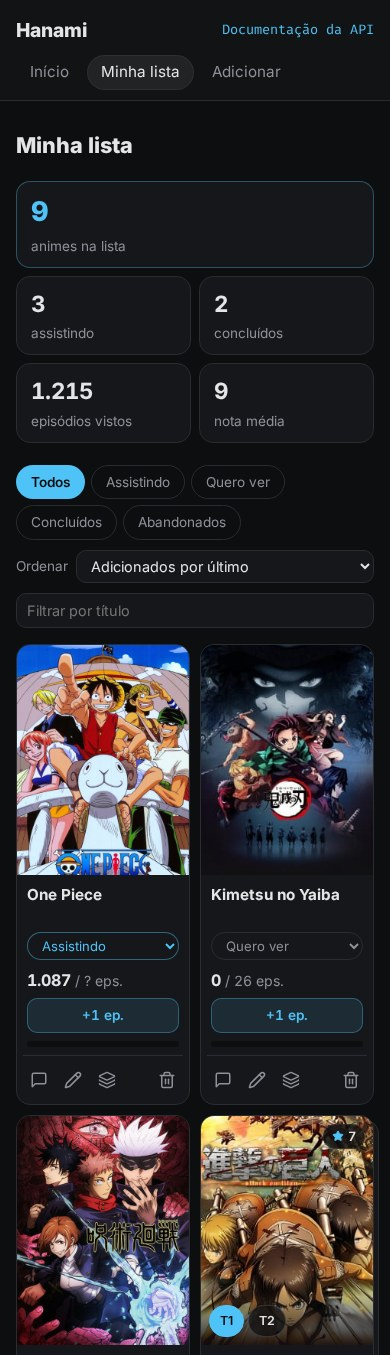
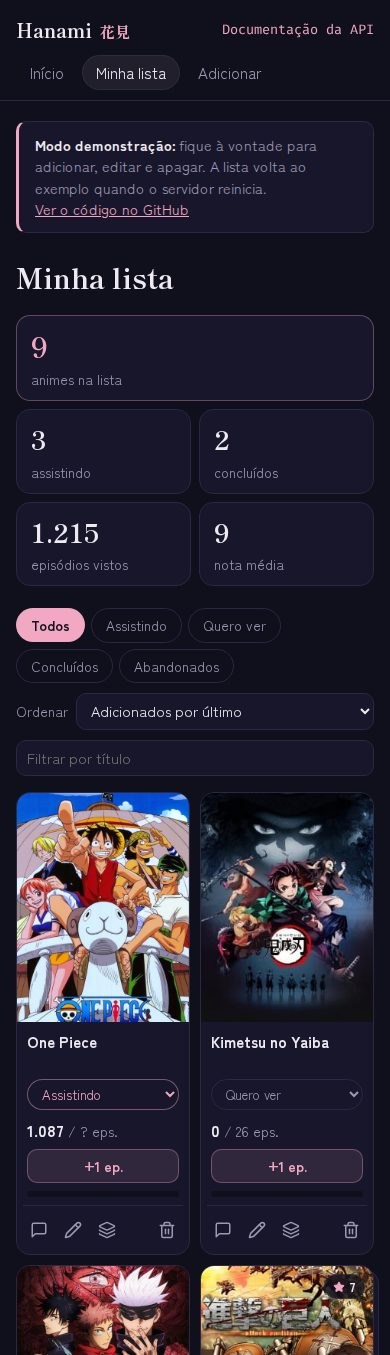
Refaz o GIF e os prints do README com a identidade Yozakura
O GIF fica sem a busca na aba Adicionar: a API do Jikan está fora do ar.

diff --git a/README.md b/README.md
@@ -13,7 +13,7 @@
 </p>
 
 <p align="center">
-  <img src="docs/demo.gif" alt="Demonstração: a página inicial com o céu de hanami (lua, galho de cerejeira e pétalas caindo) e o botão Começar; na Minha lista, no Frieren, digitando o episódio exato pelo ícone de editar e somando +1 ep., escrevendo um comentário sobre o episódio 10, trocando entre os botões T1 e T2 no cartão de Shingeki no Kyojin, que junta as duas temporadas, filtrando pela aba Quero ver e buscando Cowboy Bebop na aba Adicionar" width="800">
+  <img src="docs/demo.gif" alt="Demonstração: a página inicial com o céu de hanami (lua, galho de cerejeira e pétalas caindo) e o botão Começar; na Minha lista, no Frieren, somando +1 ep. duas vezes e escrevendo um comentário sobre o episódio 20; no cartão de Shingeki no Kyojin, que junta as temporadas, trocando para a T2; filtrando pela aba Quero ver e abrindo a aba Adicionar" width="800">
 </p>
 
 ## Funcionalidades
